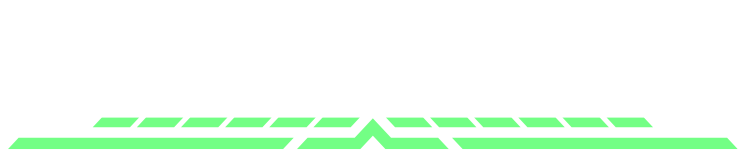
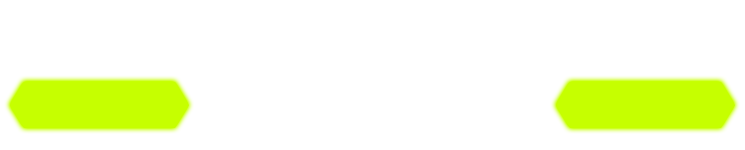
OS theme styling

Changed region(s): [[0.0, 0.5067, 1.0, 1.0]]

diff --git a/styles/actor/character.css b/styles/actor/character.css
@@ -27,7 +27,8 @@
 
 	& .window-header {
 		border: none;
-		font-family: var(--os-font-text);
+		font-family: var(--os-font-header);
+		text-transform: uppercase;
 		justify-content: space-between;
 	}
 
@@ -55,6 +56,7 @@
 		font-family: var(--os-font-heading);
 		font-weight: 800;
 		font-size: var(--font-size-32);
+		text-transform: uppercase;
 		height: auto;
 		width: 520px;
 		background-color: transparent;
@@ -182,7 +184,7 @@
 
 	& .Loadout {
 		position: absolute;
-		right: -260px;
+		right: -250px;
 		top: 0px;
 		isolation: isolate;
 
@@ -200,10 +202,10 @@
 
 		& .Loadout--bg {
 			position: relative;
-			top: -40px;
-			right: 20px;
+			top: -30px;
+			right: 10px;
 			background: url("../../assets/media/background.webp") 0% 0% / cover;
-			outline: 2px solid var(--os-color);
+			outline: 0px solid var(--os-color);
 			outline-offset: -10px;
 			padding: 10px;
 			overflow: hidden;
@@ -214,24 +216,27 @@
 			width: 280px;
 			display: flex;
 			flex-direction: column;
-			scale: 0.8;
-			rotate: 7deg;
+			scale: 0.84;
+			rotate: 6deg;
 
 			& .meta {
-				background: var(--os-color-accent-2) url("/ui/parchment.jpg") repeat;
+				background: var(--os-color-accent-1) url("/ui/parchment.jpg") repeat;
 				background-blend-mode: color-burn;
 				color: var(--os-color-accent);
 				font-family: var(--os-font-primary);
 				font-size: var(--font-size-16);
 				text-align: center;
+				text-transform: uppercase;
 				padding: var(--os-space-1) var(--os-space-3);
 			}
 
 			& .title {
-				color: var(--os-color);
-				font-size: var(--font-size-32);
+				display: none;
+				/*color: var(--os-color);
+				font-size: var(--font-size-24);
 				font-family: var(--os-font-accent);
 				text-align: center;
+				text-transform: uppercase;*/
 			}
 
 			& .taglist {
@@ -245,7 +250,7 @@
 
 				& li {
 					display: flex;
-					align-items: center;
+					align-items: left;
 					gap: var(--os-space-3);
 					color: var(--os-color);
 
@@ -268,7 +273,7 @@
 					}
 
 					& .tag--name {
-						text-align: center;
+						text-align: left;
 						border: none;
 						border-radius: 0px;
 						padding-block: var(--os-space-2);
@@ -318,11 +323,11 @@
 
 	& .os--character-theme {
 		position: absolute;
-		top: 0px;
+		top: 15px;
 		left: -225px;
 		width: 300px;
 		outline-offset: -2px;
-		border-radius: 2px;
+		border-radius: 0px;
 		translate: -20% -18%;
 		rotate: 1deg;
 		scale: 0.7;
@@ -344,12 +349,12 @@
 		}
 
 		&:hover {
-			scale: 0.8;
+			scale: 0.75;
 			z-index: 1;
 		}
 
 		&:nth-child(2) {
-			top: 20px;
+			top: 45px;
 			left: -20px;
 			rotate: -1deg;
 		}

diff --git a/styles/root.css b/styles/root.css
@@ -1,23 +1,27 @@
 :root {
-	--os-color-bg: hsl(40, 85%, 87%);
-	--os-color: hsl(41, 23%, 24%);
+	--os-color-bg: hsla(189, 64%, 94%, 1);
+	--os-color: hsla(189, 64%, 94%, 1); 
 	--os-color-alt-bg: hsl(34, 34%, 82%);
 	--os-color-dark-bg: hsl(0 0.88% 44.51%);
 	--os-color-accent-bg: hsl(225.94 10.66% 41.72%);
-	--os-color-accent: hsl(46.61 81.44% 92.99%);
+	--os-color-accent: hsla(189, 64%, 94%, 1);
 	--os-color-accent-2: hsl(24deg 20.72% 43.81%);
 	--os-color-primary-bg: color-mix(in hsl, var(--os-color-accent) 75%, hsl(0 0% 100%));
-	--os-color-primary: color-mix(in hsl, var(--os-color) 75%, hsl(0 0% 0%));
+	--os-color-primary: hsla(189, 64%, 94%, 1);
 	--os-color-row-odd: rgb(0, 0, 0, 0.1);
-	--os-color-weakness: hsl(10 41.04% 26.41%);
-	--os-color-weakness-bg: hsl(6.5 42.05% 41.08% / 20%);
 	--os-color-muted-bg: hsl(0 0% 45.42% / 20%);
+	
+	/* Weakness Tags */
+	--os-color-weakness: hsla(73, 100%, 50%, 1);
+	--os-color-weakness-bg: hsl(6.5 42.05% 41.08% / 20%);
+	--os-color-weakness-img: url(../../assets/media/weakness-tag.webp);
+	--os-color-weakness-img-sm: url(../../assets/media/weakness-legend.webp);
 
 	/* Fonts */
-	--os-font-heading: Brownland, Isotonic, 'Palatino Linotype', 'Book Antiqua', Palatino, serif;
-	--os-font-primary: Isotonic, IsotonicMedI, 'Palatino Linotype', 'Book Antiqua', Palatino, serif;
-	--os-font-accent: Brownland, 'Brush Script MT', 'Bradley Hand ITC', 'Lucida Calligraphy', 'Lucida Handwriting', 'Apple Chancery', cursive;
-	--os-font-text: IsotonicMedI, 'Palatino Linotype', 'Book Antiqua', Palatino, serif;
+	--os-font-heading: Brownland, Isotonic, sans-serif;
+	--os-font-primary: Isotonic, IsotonicMedI, sans-serif;
+	--os-font-accent: IsotonicMedI, sans-serif;
+	--os-font-text: Isotonic, sans-serif;
 
 	/* Vertical spacing */
 	--os-space-1: 0.25rem;
@@ -27,8 +31,8 @@
 	--os-space-5: 4rem;
 
 	/* Foundry Overrides */
-	--font-size-26: 1.625rem;
-	--font-primary: 'Brownland' 'Palatino Linotype', 'Book Antiqua', Palatino, serif;
+	--font-size-26: 1.425rem;
+	--font-primary: 'Brownland' 'Isotonic', sans-serif;
 	--color-text-light-1: var(--os-color-accent);
 	--color-shadow-primary: var(--os-color-primary);
 	--color-shadow-highlight: var(--os-color-accent-bg);

diff --git a/styles/item/theme.css b/styles/item/theme.css
@@ -36,7 +36,6 @@
 			font-size: var(--font-size-12);
 			height: var(--font-size-14);
 			line-height: var(--font-size-16);
-
 			text-transform: uppercase;
 			min-width: 10px;
 			width: auto;
@@ -70,7 +69,8 @@
 		& span {
 
 			&:last-of-type {
-				color: var(--os-color-weakness)
+				color: var(--os-color-weakness);
+				background-image: var(--os-color-weakness-img-sm) no-repeat;
 			}
 		}
 	}
@@ -79,17 +79,19 @@
 		margin: var(--os-space-1) var(--os-space-3);
 		display: flex;
 		justify-content: space-between;
-		align-items: center;
+		align-items: left;
 		gap: var(--os-space-2);
 		color: var(--os-color);
 		font-size: var(--font-size-16);
+		text-transform: uppercase;
 
 		& span {
 			font-family: var(--os-font-primary);
 			font-size: var(--font-size-26);
 			border: none;
 			background-color: transparent;
-			text-align: center;
+			text-align: left;
+			text-transform: uppercase;
 			margin-bottom: -0.85rem;
 			transition: all 0.15s;
 
@@ -134,7 +136,7 @@
 			}
 
 			& .tag--name {
-				text-align: center;
+				text-align: left;
 				border: none;
 				border-radius: 0px;
 				padding-block: var(--os-space-2);
@@ -184,7 +186,7 @@
 		padding: 0px var(--os-space-3) 0px;
 		display: flex;
 		align-items: baseline;
-		background-image: radial-gradient(ellipse at top, var(--os-color-weakness-bg) 30%, transparent 70%);
+		background-image: var(--os-color-weakness-img);
 
 		& .os--weakness-part {
 			width: 100%;
@@ -244,7 +246,7 @@
 			margin-top: 5px;
 			text-transform: uppercase;
 			font-family: var(--os-font-primary);
-			font-size: var(--font-size-12);
+			font-size: var(--font-size-14);
 			cursor: pointer;
 		}
 	}
@@ -261,14 +263,15 @@
 			color: var(--os-color-accent);
 			font-family: var(--os-font-accent);
 			font-size: var(--font-size-20);
-			text-align: center;
+			text-align: left;
+			text-transform: uppercase;
 
 			& [role="textbox"] {
 				background: transparent;
 				color: var(--os-color-accent);
 				font-family: var(--os-font-accent);
 				border: none;
-				border-radius: 8px;
+				border-radius: 0px;
 				margin-inline: auto;
 				letter-spacing: 1px;
 				transition: all 0.15s;

diff --git a/styles/components.css b/styles/components.css
@@ -26,7 +26,7 @@
 		transform: translateY(0.025em);
 		display: grid;
 		place-content: center;
-		rotate: 45deg;
+		/*rotate: 45deg;*/
 		cursor: pointer;
 
 		&::after {
@@ -82,6 +82,7 @@
 		background: url('../assets/media/burn.svg') no-repeat;
 		background-size: contain;
 		background-position: center;
+		rotate: -90deg;
 		cursor: pointer;
 
 		&.transparent {
